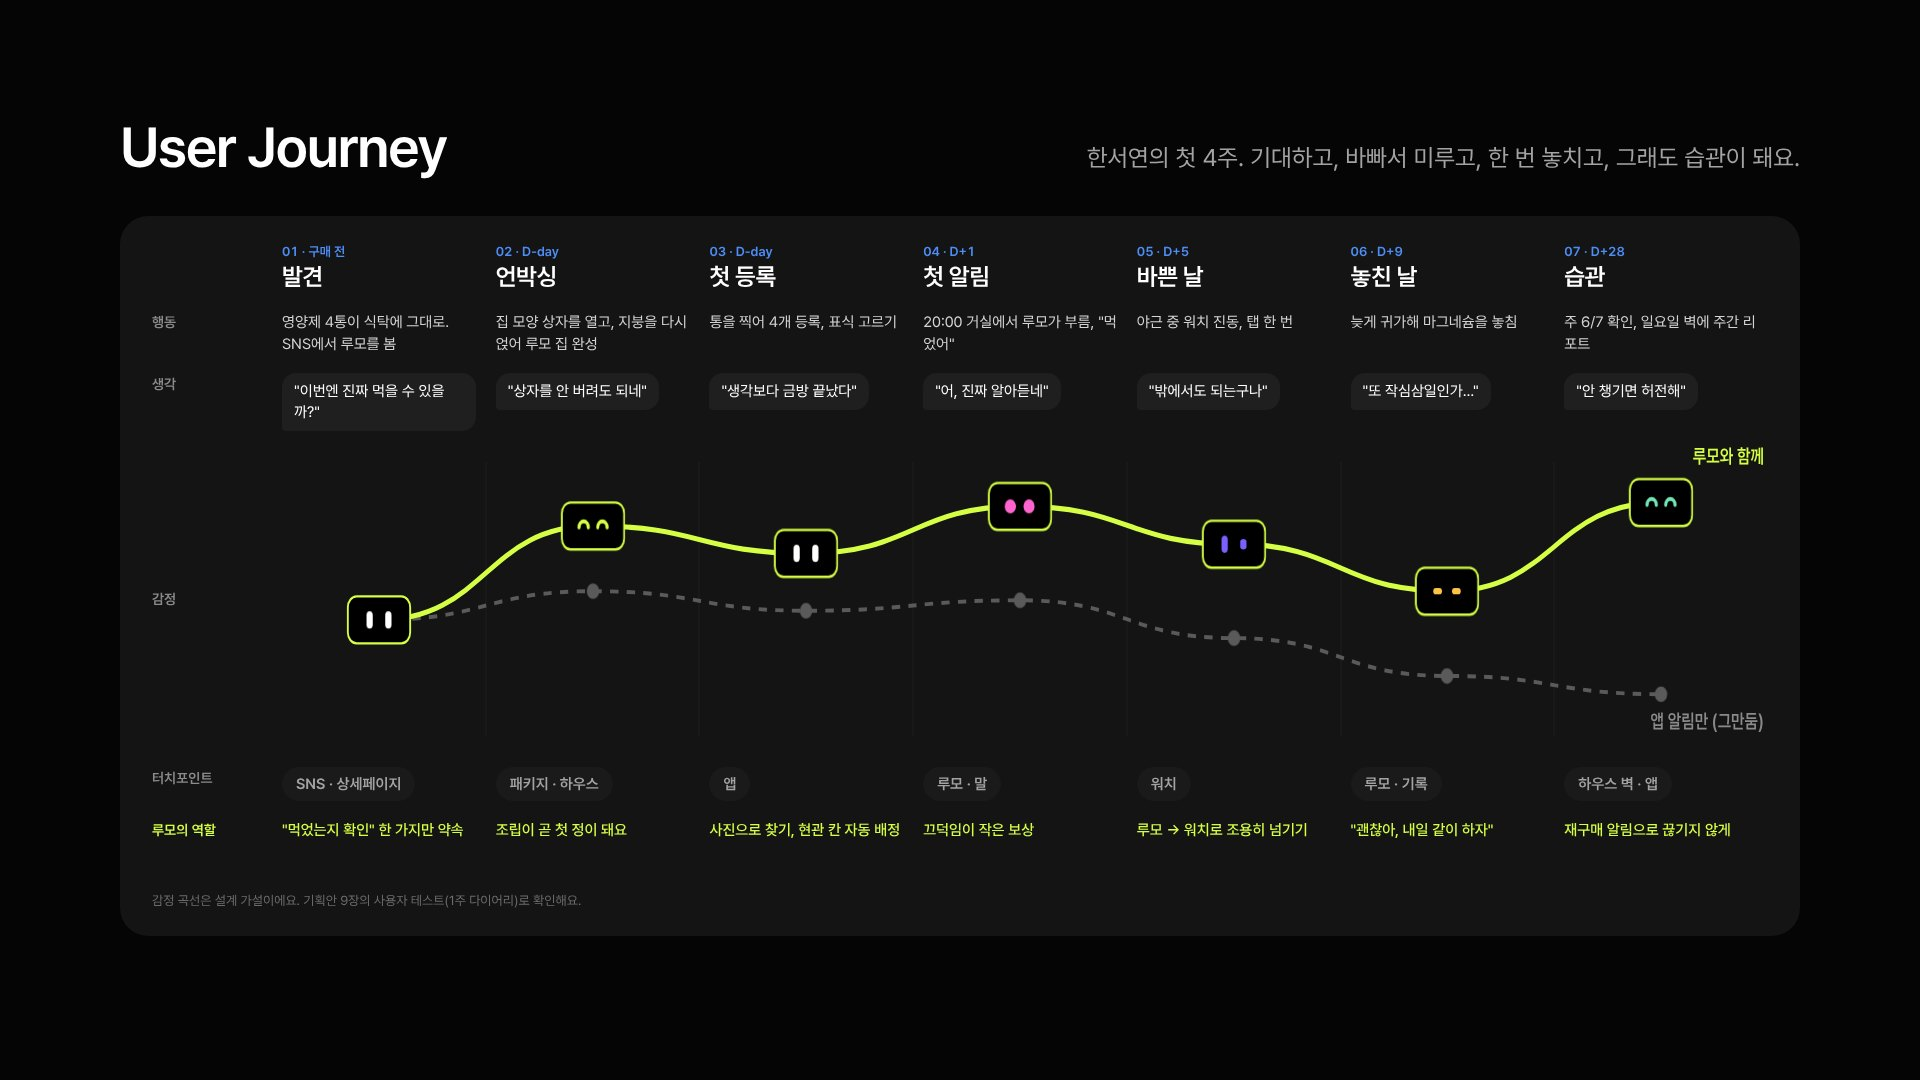
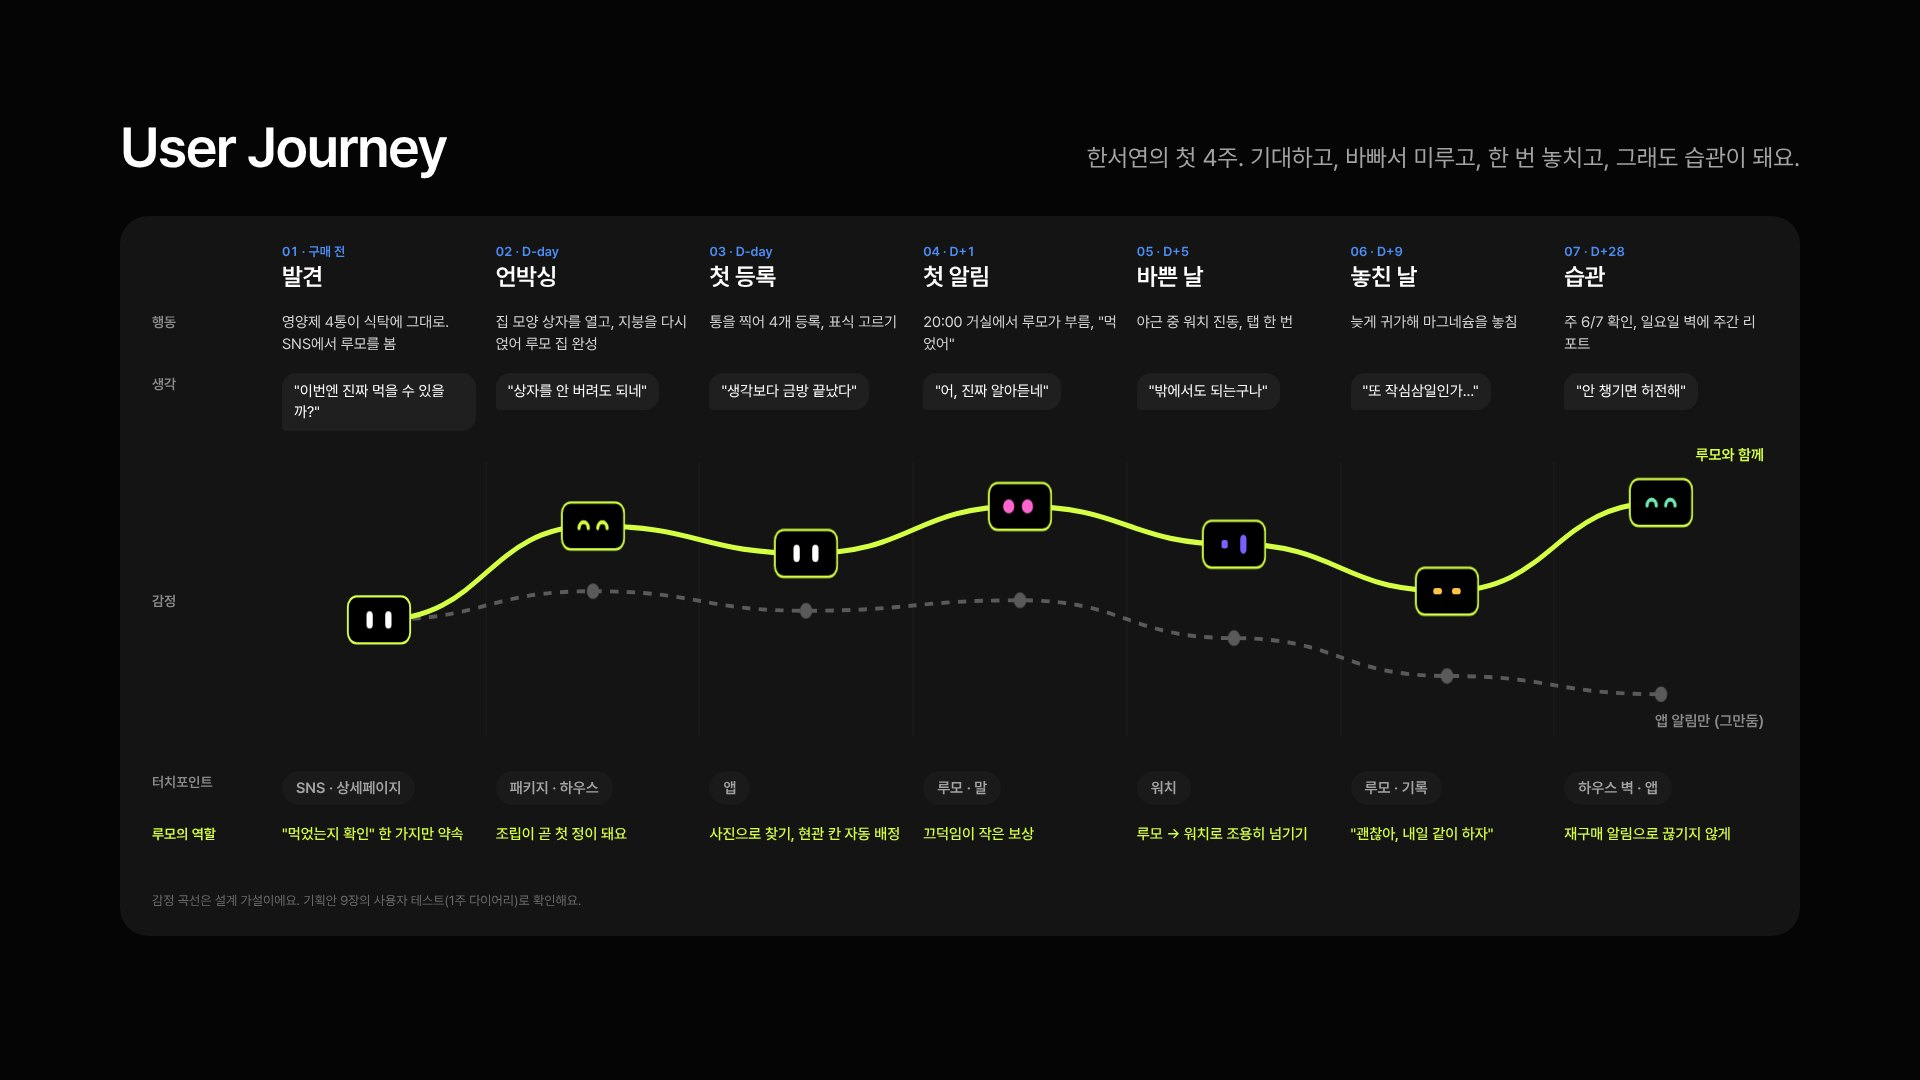
Journey: crisp curve labels; tidy canvas landing symbols heading
Claude-Session: https://claude.ai/code/session_013fdUr4ww8jB4huXazUYdTj

diff --git a/project/BrandJourney.dc.html b/project/BrandJourney.dc.html
@@ -45,7 +45,7 @@ body{margin:0}
       <div style="display: grid; grid-template-columns: 120px repeat(7, minmax(0, 1fr)); align-items: start;"><span style="font-size: 14px; line-height: 22px; font-weight: 600; color: #8b8b8b;"></span><div style="min-width: 0; padding: 0 10px;"><div style="display: flex; flex-direction: column; gap: 2px;"><span style="font-size: 13px; font-weight: 600; color: #4d8df6; font-variant-numeric: tabular-nums;">01 · 구매 전</span><span style="font-size: 24px; line-height: 32px; font-weight: 600; letter-spacing: -0.4px;">발견</span></div></div><div style="min-width: 0; padding: 0 10px;"><div style="display: flex; flex-direction: column; gap: 2px;"><span style="font-size: 13px; font-weight: 600; color: #4d8df6; font-variant-numeric: tabular-nums;">02 · D-day</span><span style="font-size: 24px; line-height: 32px; font-weight: 600; letter-spacing: -0.4px;">언박싱</span></div></div><div style="min-width: 0; padding: 0 10px;"><div style="display: flex; flex-direction: column; gap: 2px;"><span style="font-size: 13px; font-weight: 600; color: #4d8df6; font-variant-numeric: tabular-nums;">03 · D-day</span><span style="font-size: 24px; line-height: 32px; font-weight: 600; letter-spacing: -0.4px;">첫 등록</span></div></div><div style="min-width: 0; padding: 0 10px;"><div style="display: flex; flex-direction: column; gap: 2px;"><span style="font-size: 13px; font-weight: 600; color: #4d8df6; font-variant-numeric: tabular-nums;">04 · D+1</span><span style="font-size: 24px; line-height: 32px; font-weight: 600; letter-spacing: -0.4px;">첫 알림</span></div></div><div style="min-width: 0; padding: 0 10px;"><div style="display: flex; flex-direction: column; gap: 2px;"><span style="font-size: 13px; font-weight: 600; color: #4d8df6; font-variant-numeric: tabular-nums;">05 · D+5</span><span style="font-size: 24px; line-height: 32px; font-weight: 600; letter-spacing: -0.4px;">바쁜 날</span></div></div><div style="min-width: 0; padding: 0 10px;"><div style="display: flex; flex-direction: column; gap: 2px;"><span style="font-size: 13px; font-weight: 600; color: #4d8df6; font-variant-numeric: tabular-nums;">06 · D+9</span><span style="font-size: 24px; line-height: 32px; font-weight: 600; letter-spacing: -0.4px;">놓친 날</span></div></div><div style="min-width: 0; padding: 0 10px;"><div style="display: flex; flex-direction: column; gap: 2px;"><span style="font-size: 13px; font-weight: 600; color: #4d8df6; font-variant-numeric: tabular-nums;">07 · D+28</span><span style="font-size: 24px; line-height: 32px; font-weight: 600; letter-spacing: -0.4px;">습관</span></div></div></div>
       <div style="display: grid; grid-template-columns: 120px repeat(7, minmax(0, 1fr)); align-items: start;"><span style="font-size: 14px; line-height: 22px; font-weight: 600; color: #8b8b8b;">행동</span><div style="min-width: 0; padding: 0 10px;"><span style="font-size: 15px; line-height: 22px; color: #d4d4d4;">영양제 4통이 식탁에 그대로. SNS에서 루모를 봄</span></div><div style="min-width: 0; padding: 0 10px;"><span style="font-size: 15px; line-height: 22px; color: #d4d4d4;">집 모양 상자를 열고, 지붕을 다시 얹어 루모 집 완성</span></div><div style="min-width: 0; padding: 0 10px;"><span style="font-size: 15px; line-height: 22px; color: #d4d4d4;">통을 찍어 4개 등록, 표식 고르기</span></div><div style="min-width: 0; padding: 0 10px;"><span style="font-size: 15px; line-height: 22px; color: #d4d4d4;">20:00 거실에서 루모가 부름, "먹었어"</span></div><div style="min-width: 0; padding: 0 10px;"><span style="font-size: 15px; line-height: 22px; color: #d4d4d4;">야근 중 워치 진동, 탭 한 번</span></div><div style="min-width: 0; padding: 0 10px;"><span style="font-size: 15px; line-height: 22px; color: #d4d4d4;">늦게 귀가해 마그네슘을 놓침</span></div><div style="min-width: 0; padding: 0 10px;"><span style="font-size: 15px; line-height: 22px; color: #d4d4d4;">주 6/7 확인, 일요일 벽에 주간 리포트</span></div></div>
       <div style="display: grid; grid-template-columns: 120px repeat(7, minmax(0, 1fr)); align-items: start;"><span style="font-size: 14px; line-height: 22px; font-weight: 600; color: #8b8b8b;">생각</span><div style="min-width: 0; padding: 0 10px;"><span style="display: inline-block; border-radius: 14px 14px 14px 4px; background: #1f1f1f; padding: 8px 12px; font-size: 15px; line-height: 21px; color: #ffffff;">"이번엔 진짜 먹을 수 있을까?"</span></div><div style="min-width: 0; padding: 0 10px;"><span style="display: inline-block; border-radius: 14px 14px 14px 4px; background: #1f1f1f; padding: 8px 12px; font-size: 15px; line-height: 21px; color: #ffffff;">"상자를 안 버려도 되네"</span></div><div style="min-width: 0; padding: 0 10px;"><span style="display: inline-block; border-radius: 14px 14px 14px 4px; background: #1f1f1f; padding: 8px 12px; font-size: 15px; line-height: 21px; color: #ffffff;">"생각보다 금방 끝났다"</span></div><div style="min-width: 0; padding: 0 10px;"><span style="display: inline-block; border-radius: 14px 14px 14px 4px; background: #1f1f1f; padding: 8px 12px; font-size: 15px; line-height: 21px; color: #ffffff;">"어, 진짜 알아듣네"</span></div><div style="min-width: 0; padding: 0 10px;"><span style="display: inline-block; border-radius: 14px 14px 14px 4px; background: #1f1f1f; padding: 8px 12px; font-size: 15px; line-height: 21px; color: #ffffff;">"밖에서도 되는구나"</span></div><div style="min-width: 0; padding: 0 10px;"><span style="display: inline-block; border-radius: 14px 14px 14px 4px; background: #1f1f1f; padding: 8px 12px; font-size: 15px; line-height: 21px; color: #ffffff;">"또 작심삼일인가…"</span></div><div style="min-width: 0; padding: 0 10px;"><span style="display: inline-block; border-radius: 14px 14px 14px 4px; background: #1f1f1f; padding: 8px 12px; font-size: 15px; line-height: 21px; color: #ffffff;">"안 챙기면 허전해"</span></div></div>
-      <div style="display: grid; grid-template-columns: 120px minmax(0, 1fr); align-items: center;"><span style="font-size: 14px; font-weight: 600; color: #8b8b8b;">감정</span><svg role="img" aria-label="감정 곡선: 루모와 함께하면 놓친 날 잠깐 내려갔다가 습관으로 올라가고, 앱 알림만 쓰면 점점 내려가 그만둔다" viewBox="0 -10 1440 230" preserveAspectRatio="none" style="width: 100%; height: 300px; overflow: visible;"><line x1="206" y1="0" x2="206" y2="210" stroke="#1f1f1f" stroke-width="1"></line><line x1="411" y1="0" x2="411" y2="210" stroke="#1f1f1f" stroke-width="1"></line><line x1="617" y1="0" x2="617" y2="210" stroke="#1f1f1f" stroke-width="1"></line><line x1="823" y1="0" x2="823" y2="210" stroke="#1f1f1f" stroke-width="1"></line><line x1="1029" y1="0" x2="1029" y2="210" stroke="#1f1f1f" stroke-width="1"></line><line x1="1234" y1="0" x2="1234" y2="210" stroke="#1f1f1f" stroke-width="1"></line><path d="M103 121C206 121 206 99 309 99C412 99 412 114 514 114C617 114 617 106 720 106C823 106 823 135 926 135C1028 135 1028 164 1131 164C1234 164 1234 178 1337 178" fill="none" stroke="#5a5a5a" stroke-width="3" stroke-dasharray="8 8"></path><path class="draw" pathLength="1" d="M103 121C206 121 206 49 309 49C412 49 412 70 514 70C617 70 617 34 720 34C823 34 823 63 926 63C1028 63 1028 99 1131 99C1234 99 1234 31 1337 31" fill="none" stroke="#d5ff44" stroke-width="4" stroke-linecap="round"></path><circle cx="103" cy="121" r="6" fill="#5a5a5a"></circle><g transform="translate(73 103) scale(.3)"><rect width="200" height="120" rx="28" fill="#000000" stroke="#d5ff44" stroke-width="6"></rect><rect class="fx fx-blink" x="60.0" y="38.0" width="20" height="44" rx="10.0" fill="#ffffff"></rect><rect class="fx fx-blink" x="120.0" y="38.0" width="20" height="44" rx="10.0" fill="#ffffff"></rect></g><circle cx="309" cy="99" r="6" fill="#5a5a5a"></circle><g transform="translate(279 31) scale(.3)"><rect width="200" height="120" rx="28" fill="#000000" stroke="#d5ff44" stroke-width="6"></rect><g class="fx fx-bob"><path d="M55 68A15 15 0 0 1 85 68" fill="none" stroke="#d5ff44" stroke-width="10" stroke-linecap="round"></path><path d="M115 68A15 15 0 0 1 145 68" fill="none" stroke="#d5ff44" stroke-width="10" stroke-linecap="round"></path></g></g><circle cx="514" cy="114" r="6" fill="#5a5a5a"></circle><g transform="translate(484 52) scale(.3)"><rect width="200" height="120" rx="28" fill="#000000" stroke="#d5ff44" stroke-width="6"></rect><rect class="fx fx-blink" x="60.0" y="38.0" width="20" height="44" rx="10.0" fill="#ffffff"></rect><rect class="fx fx-blink" x="120.0" y="38.0" width="20" height="44" rx="10.0" fill="#ffffff"></rect></g><circle cx="720" cy="106" r="6" fill="#5a5a5a"></circle><g transform="translate(690 16) scale(.3)"><rect width="200" height="120" rx="28" fill="#000000" stroke="#d5ff44" stroke-width="6"></rect><g class="fx fx-look"><circle cx="70" cy="60" r="18" fill="#ff64cf"></circle><circle cx="130" cy="60" r="18" fill="#ff64cf"></circle></g></g><circle cx="926" cy="135" r="6" fill="#5a5a5a"></circle><g transform="translate(896 45) scale(.3)"><rect width="200" height="120" rx="28" fill="#000000" stroke="#d5ff44" stroke-width="6"></rect><rect class="fx fx-wave" x="60.0" y="38.0" width="20" height="44" rx="10.0" fill="#7960ff"></rect><rect class="fx fx-wave2" x="120.0" y="38.0" width="20" height="44" rx="10.0" fill="#7960ff"></rect></g><circle cx="1131" cy="164" r="6" fill="#5a5a5a"></circle><g transform="translate(1101 81) scale(.3)"><rect width="200" height="120" rx="28" fill="#000000" stroke="#d5ff44" stroke-width="6"></rect><rect class="fx fx-half" x="56.0" y="52.0" width="28" height="16" rx="8.0" fill="#ffc447"></rect><rect class="fx fx-half" x="116.0" y="52.0" width="28" height="16" rx="8.0" fill="#ffc447"></rect></g><circle cx="1337" cy="178" r="6" fill="#5a5a5a"></circle><g transform="translate(1307 13) scale(.3)"><rect width="200" height="120" rx="28" fill="#000000" stroke="#d5ff44" stroke-width="6"></rect><g class="fx fx-nod"><path d="M55 68A15 15 0 0 1 85 68" fill="none" stroke="#72e5b5" stroke-width="10" stroke-linecap="round"></path><path d="M115 68A15 15 0 0 1 145 68" fill="none" stroke="#72e5b5" stroke-width="10" stroke-linecap="round"></path></g></g><text x="1436" y="1" font-family="Pretendard, sans-serif" font-size="15" font-weight="600" fill="#d5ff44" text-anchor="end">루모와 함께</text><text x="1436" y="204" font-family="Pretendard, sans-serif" font-size="15" font-weight="600" fill="#8a8a8a" text-anchor="end">앱 알림만 (그만둠)</text></svg></div>
+      <div style="display: grid; grid-template-columns: 120px minmax(0, 1fr); align-items: center;"><span style="font-size: 14px; font-weight: 600; color: #8b8b8b;">감정</span><div style="position: relative;"><svg role="img" aria-label="감정 곡선: 루모와 함께하면 놓친 날 잠깐 내려갔다가 습관으로 올라가고, 앱 알림만 쓰면 점점 내려가 그만둔다" viewBox="0 -10 1440 230" preserveAspectRatio="none" style="width: 100%; height: 300px; overflow: visible;"><line x1="206" y1="0" x2="206" y2="210" stroke="#1f1f1f" stroke-width="1"></line><line x1="411" y1="0" x2="411" y2="210" stroke="#1f1f1f" stroke-width="1"></line><line x1="617" y1="0" x2="617" y2="210" stroke="#1f1f1f" stroke-width="1"></line><line x1="823" y1="0" x2="823" y2="210" stroke="#1f1f1f" stroke-width="1"></line><line x1="1029" y1="0" x2="1029" y2="210" stroke="#1f1f1f" stroke-width="1"></line><line x1="1234" y1="0" x2="1234" y2="210" stroke="#1f1f1f" stroke-width="1"></line><path d="M103 121C206 121 206 99 309 99C412 99 412 114 514 114C617 114 617 106 720 106C823 106 823 135 926 135C1028 135 1028 164 1131 164C1234 164 1234 178 1337 178" fill="none" stroke="#5a5a5a" stroke-width="3" stroke-dasharray="8 8"></path><path class="draw" pathLength="1" d="M103 121C206 121 206 49 309 49C412 49 412 70 514 70C617 70 617 34 720 34C823 34 823 63 926 63C1028 63 1028 99 1131 99C1234 99 1234 31 1337 31" fill="none" stroke="#d5ff44" stroke-width="4" stroke-linecap="round"></path><circle cx="103" cy="121" r="6" fill="#5a5a5a"></circle><g transform="translate(73 103) scale(.3)"><rect width="200" height="120" rx="28" fill="#000000" stroke="#d5ff44" stroke-width="6"></rect><rect class="fx fx-blink" x="60.0" y="38.0" width="20" height="44" rx="10.0" fill="#ffffff"></rect><rect class="fx fx-blink" x="120.0" y="38.0" width="20" height="44" rx="10.0" fill="#ffffff"></rect></g><circle cx="309" cy="99" r="6" fill="#5a5a5a"></circle><g transform="translate(279 31) scale(.3)"><rect width="200" height="120" rx="28" fill="#000000" stroke="#d5ff44" stroke-width="6"></rect><g class="fx fx-bob"><path d="M55 68A15 15 0 0 1 85 68" fill="none" stroke="#d5ff44" stroke-width="10" stroke-linecap="round"></path><path d="M115 68A15 15 0 0 1 145 68" fill="none" stroke="#d5ff44" stroke-width="10" stroke-linecap="round"></path></g></g><circle cx="514" cy="114" r="6" fill="#5a5a5a"></circle><g transform="translate(484 52) scale(.3)"><rect width="200" height="120" rx="28" fill="#000000" stroke="#d5ff44" stroke-width="6"></rect><rect class="fx fx-blink" x="60.0" y="38.0" width="20" height="44" rx="10.0" fill="#ffffff"></rect><rect class="fx fx-blink" x="120.0" y="38.0" width="20" height="44" rx="10.0" fill="#ffffff"></rect></g><circle cx="720" cy="106" r="6" fill="#5a5a5a"></circle><g transform="translate(690 16) scale(.3)"><rect width="200" height="120" rx="28" fill="#000000" stroke="#d5ff44" stroke-width="6"></rect><g class="fx fx-look"><circle cx="70" cy="60" r="18" fill="#ff64cf"></circle><circle cx="130" cy="60" r="18" fill="#ff64cf"></circle></g></g><circle cx="926" cy="135" r="6" fill="#5a5a5a"></circle><g transform="translate(896 45) scale(.3)"><rect width="200" height="120" rx="28" fill="#000000" stroke="#d5ff44" stroke-width="6"></rect><rect class="fx fx-wave" x="60.0" y="38.0" width="20" height="44" rx="10.0" fill="#7960ff"></rect><rect class="fx fx-wave2" x="120.0" y="38.0" width="20" height="44" rx="10.0" fill="#7960ff"></rect></g><circle cx="1131" cy="164" r="6" fill="#5a5a5a"></circle><g transform="translate(1101 81) scale(.3)"><rect width="200" height="120" rx="28" fill="#000000" stroke="#d5ff44" stroke-width="6"></rect><rect class="fx fx-half" x="56.0" y="52.0" width="28" height="16" rx="8.0" fill="#ffc447"></rect><rect class="fx fx-half" x="116.0" y="52.0" width="28" height="16" rx="8.0" fill="#ffc447"></rect></g><circle cx="1337" cy="178" r="6" fill="#5a5a5a"></circle><g transform="translate(1307 13) scale(.3)"><rect width="200" height="120" rx="28" fill="#000000" stroke="#d5ff44" stroke-width="6"></rect><g class="fx fx-nod"><path d="M55 68A15 15 0 0 1 85 68" fill="none" stroke="#72e5b5" stroke-width="10" stroke-linecap="round"></path><path d="M115 68A15 15 0 0 1 145 68" fill="none" stroke="#72e5b5" stroke-width="10" stroke-linecap="round"></path></g></g></svg><span style="font-size: 15px; line-height: 20px; font-weight: 600; position: absolute; right: 4px; white-space: nowrap; pointer-events: none; top: -4px; color: #d5ff44;">루모와 함께</span><span style="font-size: 15px; line-height: 20px; font-weight: 600; position: absolute; right: 4px; white-space: nowrap; pointer-events: none; top: 262px; color: #8a8a8a;">앱 알림만 (그만둠)</span></div></div>
       <div style="display: grid; grid-template-columns: 120px repeat(7, minmax(0, 1fr)); align-items: start;"><span style="font-size: 14px; line-height: 22px; font-weight: 600; color: #8b8b8b;">터치포인트</span><div style="min-width: 0; padding: 0 10px;"><span style="height: 34px; padding: 0 14px; border-radius: 999px; background: #1a1a1a; display: inline-flex; align-items: center; font-size: 15px; font-weight: 600; color: #a3a3a3; white-space: nowrap;">SNS · 상세페이지</span></div><div style="min-width: 0; padding: 0 10px;"><span style="height: 34px; padding: 0 14px; border-radius: 999px; background: #1a1a1a; display: inline-flex; align-items: center; font-size: 15px; font-weight: 600; color: #a3a3a3; white-space: nowrap;">패키지 · 하우스</span></div><div style="min-width: 0; padding: 0 10px;"><span style="height: 34px; padding: 0 14px; border-radius: 999px; background: #1a1a1a; display: inline-flex; align-items: center; font-size: 15px; font-weight: 600; color: #a3a3a3; white-space: nowrap;">앱</span></div><div style="min-width: 0; padding: 0 10px;"><span style="height: 34px; padding: 0 14px; border-radius: 999px; background: #1a1a1a; display: inline-flex; align-items: center; font-size: 15px; font-weight: 600; color: #a3a3a3; white-space: nowrap;">루모 · 말</span></div><div style="min-width: 0; padding: 0 10px;"><span style="height: 34px; padding: 0 14px; border-radius: 999px; background: #1a1a1a; display: inline-flex; align-items: center; font-size: 15px; font-weight: 600; color: #a3a3a3; white-space: nowrap;">워치</span></div><div style="min-width: 0; padding: 0 10px;"><span style="height: 34px; padding: 0 14px; border-radius: 999px; background: #1a1a1a; display: inline-flex; align-items: center; font-size: 15px; font-weight: 600; color: #a3a3a3; white-space: nowrap;">루모 · 기록</span></div><div style="min-width: 0; padding: 0 10px;"><span style="height: 34px; padding: 0 14px; border-radius: 999px; background: #1a1a1a; display: inline-flex; align-items: center; font-size: 15px; font-weight: 600; color: #a3a3a3; white-space: nowrap;">하우스 벽 · 앱</span></div></div>
       <div style="display: grid; grid-template-columns: 120px repeat(7, minmax(0, 1fr)); align-items: start;"><span style="font-size: 14px; line-height: 22px; font-weight: 600; color: #d5ff44;">루모의 역할</span><div style="min-width: 0; padding: 0 10px;"><span style="font-size: 15px; line-height: 22px; color: #d5ff44; font-weight: 500;">"먹었는지 확인" 한 가지만 약속</span></div><div style="min-width: 0; padding: 0 10px;"><span style="font-size: 15px; line-height: 22px; color: #d5ff44; font-weight: 500;">조립이 곧 첫 정이 돼요</span></div><div style="min-width: 0; padding: 0 10px;"><span style="font-size: 15px; line-height: 22px; color: #d5ff44; font-weight: 500;">사진으로 찾기, 현관 칸 자동 배정</span></div><div style="min-width: 0; padding: 0 10px;"><span style="font-size: 15px; line-height: 22px; color: #d5ff44; font-weight: 500;">끄덕임이 작은 보상</span></div><div style="min-width: 0; padding: 0 10px;"><span style="font-size: 15px; line-height: 22px; color: #d5ff44; font-weight: 500;">루모 → 워치로 조용히 넘기기</span></div><div style="min-width: 0; padding: 0 10px;"><span style="font-size: 15px; line-height: 22px; color: #d5ff44; font-weight: 500;">"괜찮아, 내일 같이 하자"</span></div><div style="min-width: 0; padding: 0 10px;"><span style="font-size: 15px; line-height: 22px; color: #d5ff44; font-weight: 500;">재구매 알림으로 끊기지 않게</span></div></div>
       <span style="margin-top: auto; font-size: 13px; color: #6b6b6b;">감정 곡선은 설계 가설이에요. 기획안 9장의 사용자 테스트(1주 다이어리)로 확인해요.</span>

diff --git a/project/BrandSite.dc.html b/project/BrandSite.dc.html
@@ -202,7 +202,6 @@ body{margin:0;background:#000000}
   </section>
 
   <section id="symbols" class="sec"><div class="wrap" style="display: flex; flex-direction: column; gap: 40px;">
-    <div class="reveal" style="display: flex; flex-direction: column; gap: 16px;"><span class="eyebrow">Symbols &amp; Motion</span><h2 class="h-l">모양마다<br>그려지는 방식이 달라요.</h2><p class="lead">올려보면 뜻이, 흩어보면 리듬이 보여요.</p></div>
     <div class="reveal" data-symfit="1" style="position: relative; width: 100%; aspect-ratio: 16 / 9; border-radius: 24px; overflow: hidden; background: #050505; box-shadow: 0 0 0 1px #1c1c1e;"><div style="width: 1920px; height: 1080px; transform: scale(var(--ss, 0.5)); transform-origin: 0 0;"><dc-import name="BrandSymbols" embed="{{yes}}" hint-size="1920px,1080px"></dc-import></div></div>
   </div></section>
 
